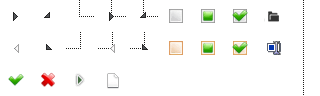
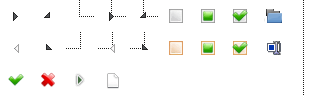
Update styling a bit

Changed region(s): [[0.8125, 0.0938, 0.9062, 0.25]]

diff --git a/css/ocPassman.css b/css/ocPassman.css
@@ -2,7 +2,9 @@
 	display: initial;
 	width: 100%;
 	line-height: 25px;
+	height: 26px;
 	padding: 0 0;
+	display: inline-block;
 }
 #app-navigation-toggle {
 	z-index: 2;
@@ -23,6 +25,13 @@
 	float: left;
 	background-color: #f8f8f8;
 	border-right: 1px solid #ccc;
+}
+.jstree-default .jstree-themeicon {
+	background-image: url('../../../core/img/filetypes/folder.svg') !important;
+	background-position: center center;
+	background-size: contain;
+	height: 25px !important;
+	width: 25px !important;
 }
 /*
  #menu li {
@@ -175,15 +184,15 @@ div#passwordStrengthDiv {
 	margin: 0 0 0.5em;
 	padding: 1em;
 }
-@media (max-width: 768px) {
-	div#topContent {
-		margin-left: 30px;
-	}
-}
 li.ui-menu-item .description {
 	font-size: 13px;
 	color: #A5A5A5;
 }
 .ui-autocomplete {
 	max-height: 300px;
+}
+@media (max-width: 768px) {
+	div#topContent {
+		margin-left: 30px;
+	}
 }
